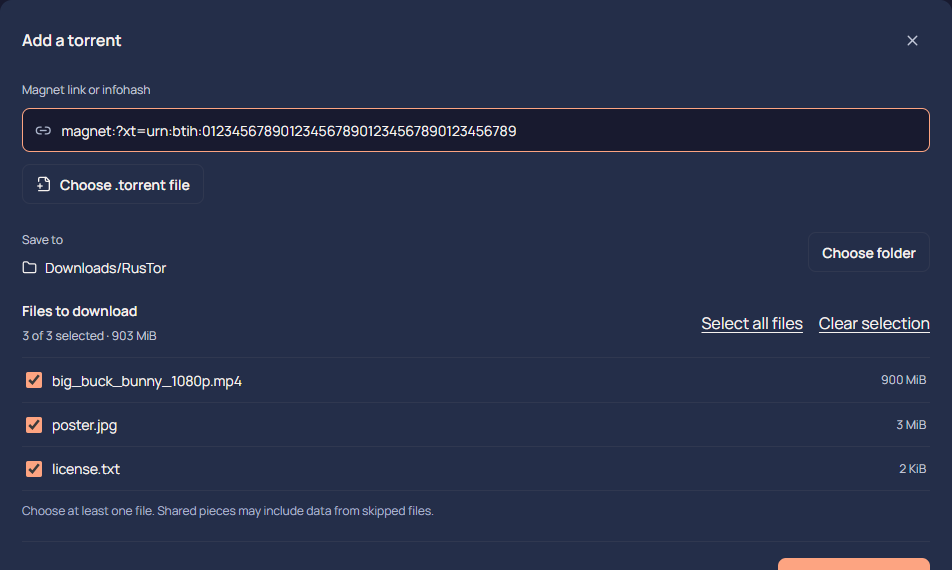
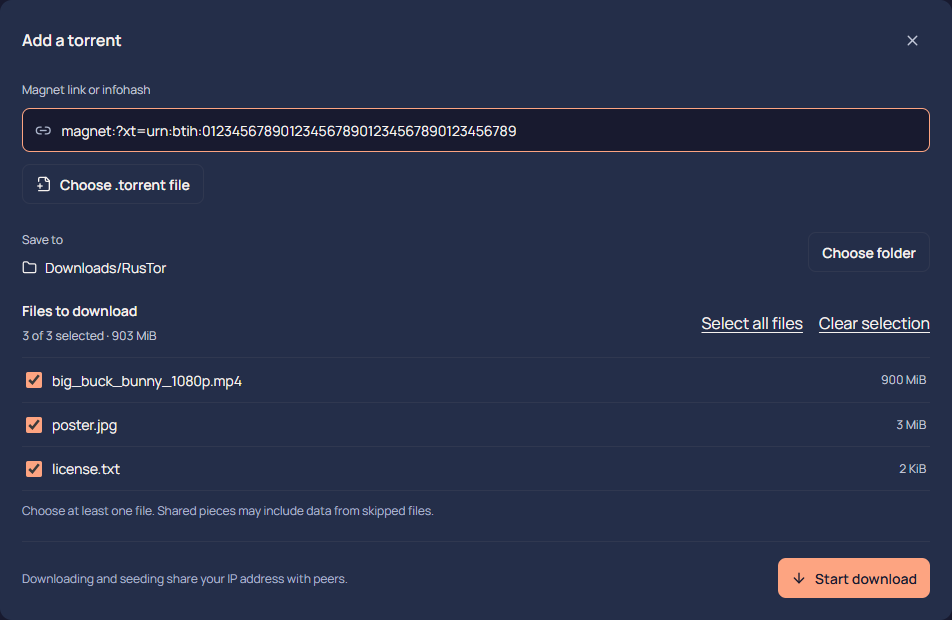
fix(web): align feature rows and show complete screenshots

diff --git a/web/styles.css b/web/styles.css
@@ -55,17 +55,15 @@ p{text-wrap:pretty}
 .theme-switch{display:flex;gap:4px;flex:none}
 .theme-switch button{border:0;background:transparent;color:var(--quiet);padding:8px 16px;min-height:44px;border-radius:999px;font-size:var(--text-caption);transition:transform 160ms var(--ease-out)}
 .theme-switch button[aria-pressed=true]{background:var(--surface);color:var(--white)}
-.section-heading{display:grid;grid-template-columns:1.25fr 1fr;gap:64px;align-items:end;margin-bottom:48px}
+.section-heading{display:grid;grid-template-columns:1.25fr 1fr;gap:64px;align-items:start;margin-bottom:48px}
 .section-heading>p{max-width:39ch;justify-self:end}
-.product-details{display:grid;grid-template-columns:1fr 1fr;gap:48px}
-.detail-copy{margin-bottom:24px}
+.product-details{display:grid;gap:64px}
+.detail{display:grid;grid-template-columns:minmax(0,.8fr) minmax(0,1.4fr);gap:64px;align-items:start}
+.detail-copy{margin-bottom:0}
 .detail-copy p{margin-top:12px;max-width:48ch}
-.detail figure{overflow:hidden;background:var(--surface)}
-.detail img{width:100%}
-.detail-files figure{position:sticky;top:32px}
-.details-side{display:grid;gap:40px}
-.detail-settings img{aspect-ratio:952/420;object-fit:cover;object-position:top}
-.detail-theme img{aspect-ratio:1240/570;object-fit:cover;object-position:top}
+.detail figure{min-width:0}
+.detail img{width:100%;height:auto}
+.details-side{display:contents}
 .experience-note{margin-top:40px;max-width:75ch}
 .download-layout{display:grid;grid-template-columns:1fr 1fr;gap:96px;align-items:start}
 .download-intro>p:first-of-type{max-width:34ch;margin-top:24px}
@@ -121,7 +119,8 @@ p{text-wrap:pretty}
   :root{--text-display:60px;--text-heading:36px;--section-space:80px}
   .hero-copy,.section-heading{gap:32px}
   .hero-copy{grid-template-columns:1.4fr 1fr}
-  .product-details{gap:32px}
+  .product-details{gap:48px}
+  .detail{gap:32px}
   .download-layout{gap:48px}
 }
 @media(max-width:700px){
@@ -137,17 +136,15 @@ p{text-wrap:pretty}
   .hero-copy{padding-bottom:32px}
   .hero-copy .button{margin-top:24px}
   .hero-proof{margin-top:12px}
-  .hero-product{margin-inline:calc(var(--gutter)*-1);overflow:hidden}
-  .hero-product>img{max-width:none;width:calc(100% + 90px);margin-left:-85px}
+  .hero-product{margin-inline:0}
+  .hero-product>img{width:100%;margin-left:0}
   .hero-product figcaption{margin:12px var(--gutter) 0;align-items:start;gap:8px}
   .hero-product figcaption>span{max-width:24ch}
   .theme-switch button{padding:8px 12px}
   .section-heading{margin-bottom:32px}
-  .product-details{grid-template-columns:1fr;gap:32px}
-  .detail-files figure{position:static}
-  .details-side{gap:32px}
-  .detail-copy{margin-bottom:16px}
-  .detail-theme img{aspect-ratio:1240/680}
+  .product-details{gap:40px}
+  .detail{grid-template-columns:1fr;gap:16px}
+  .detail-copy{margin-bottom:0}
   .experience-note{margin-top:32px}
   .download-layout{gap:32px}
   .download-intro>.caption{margin-top:16px}

diff --git a/web/index.html b/web/index.html
@@ -61,7 +61,7 @@
         <div class="product-details">
           <article class="detail detail-files">
             <div class="detail-copy" data-reveal><h3 class="heading-3">Just the files you want.</h3><p>Open a magnet or torrent, see what’s inside, and choose your files and folder before the download begins.</p></div>
-            <figure data-ui data-reveal><img src="./assets/files.png" alt="File selection in RusTor with individual files and their sizes" width="952" height="570" loading="lazy"></figure>
+            <figure data-ui data-reveal><img src="./assets/files.png" alt="File selection in RusTor with individual files and their sizes" width="952" height="620" loading="lazy"></figure>
           </article>
           <div class="details-side">
             <article class="detail detail-settings">
